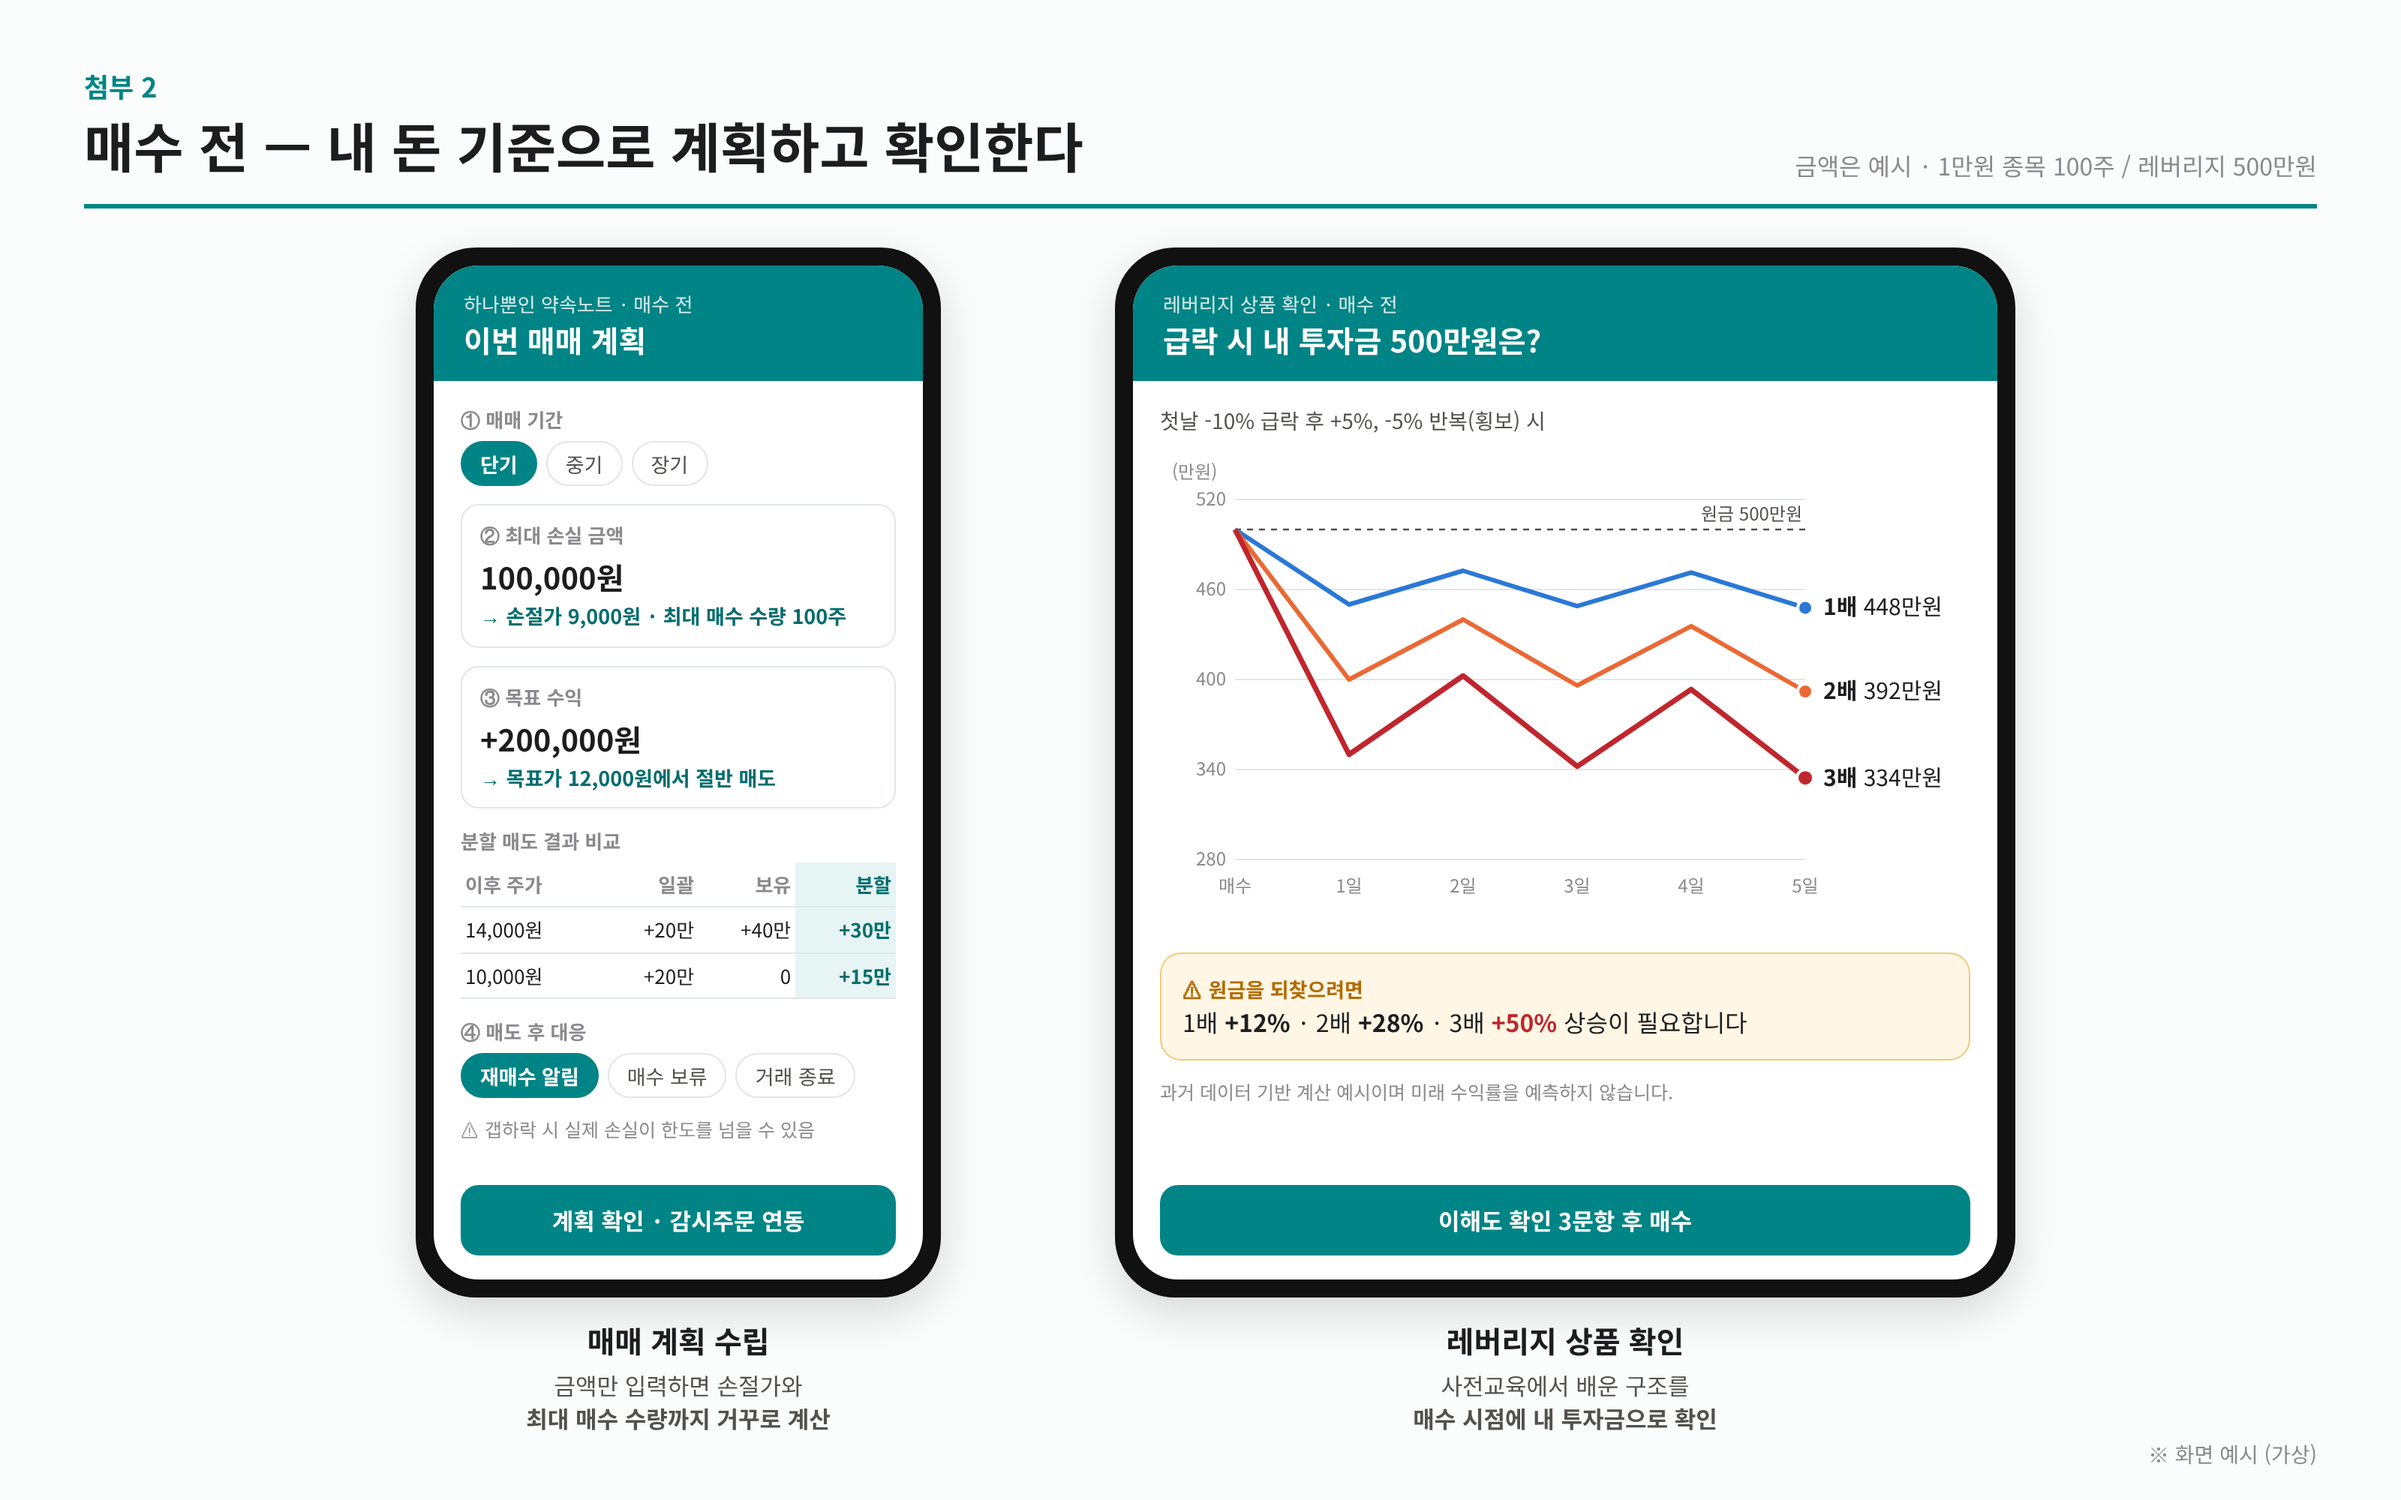
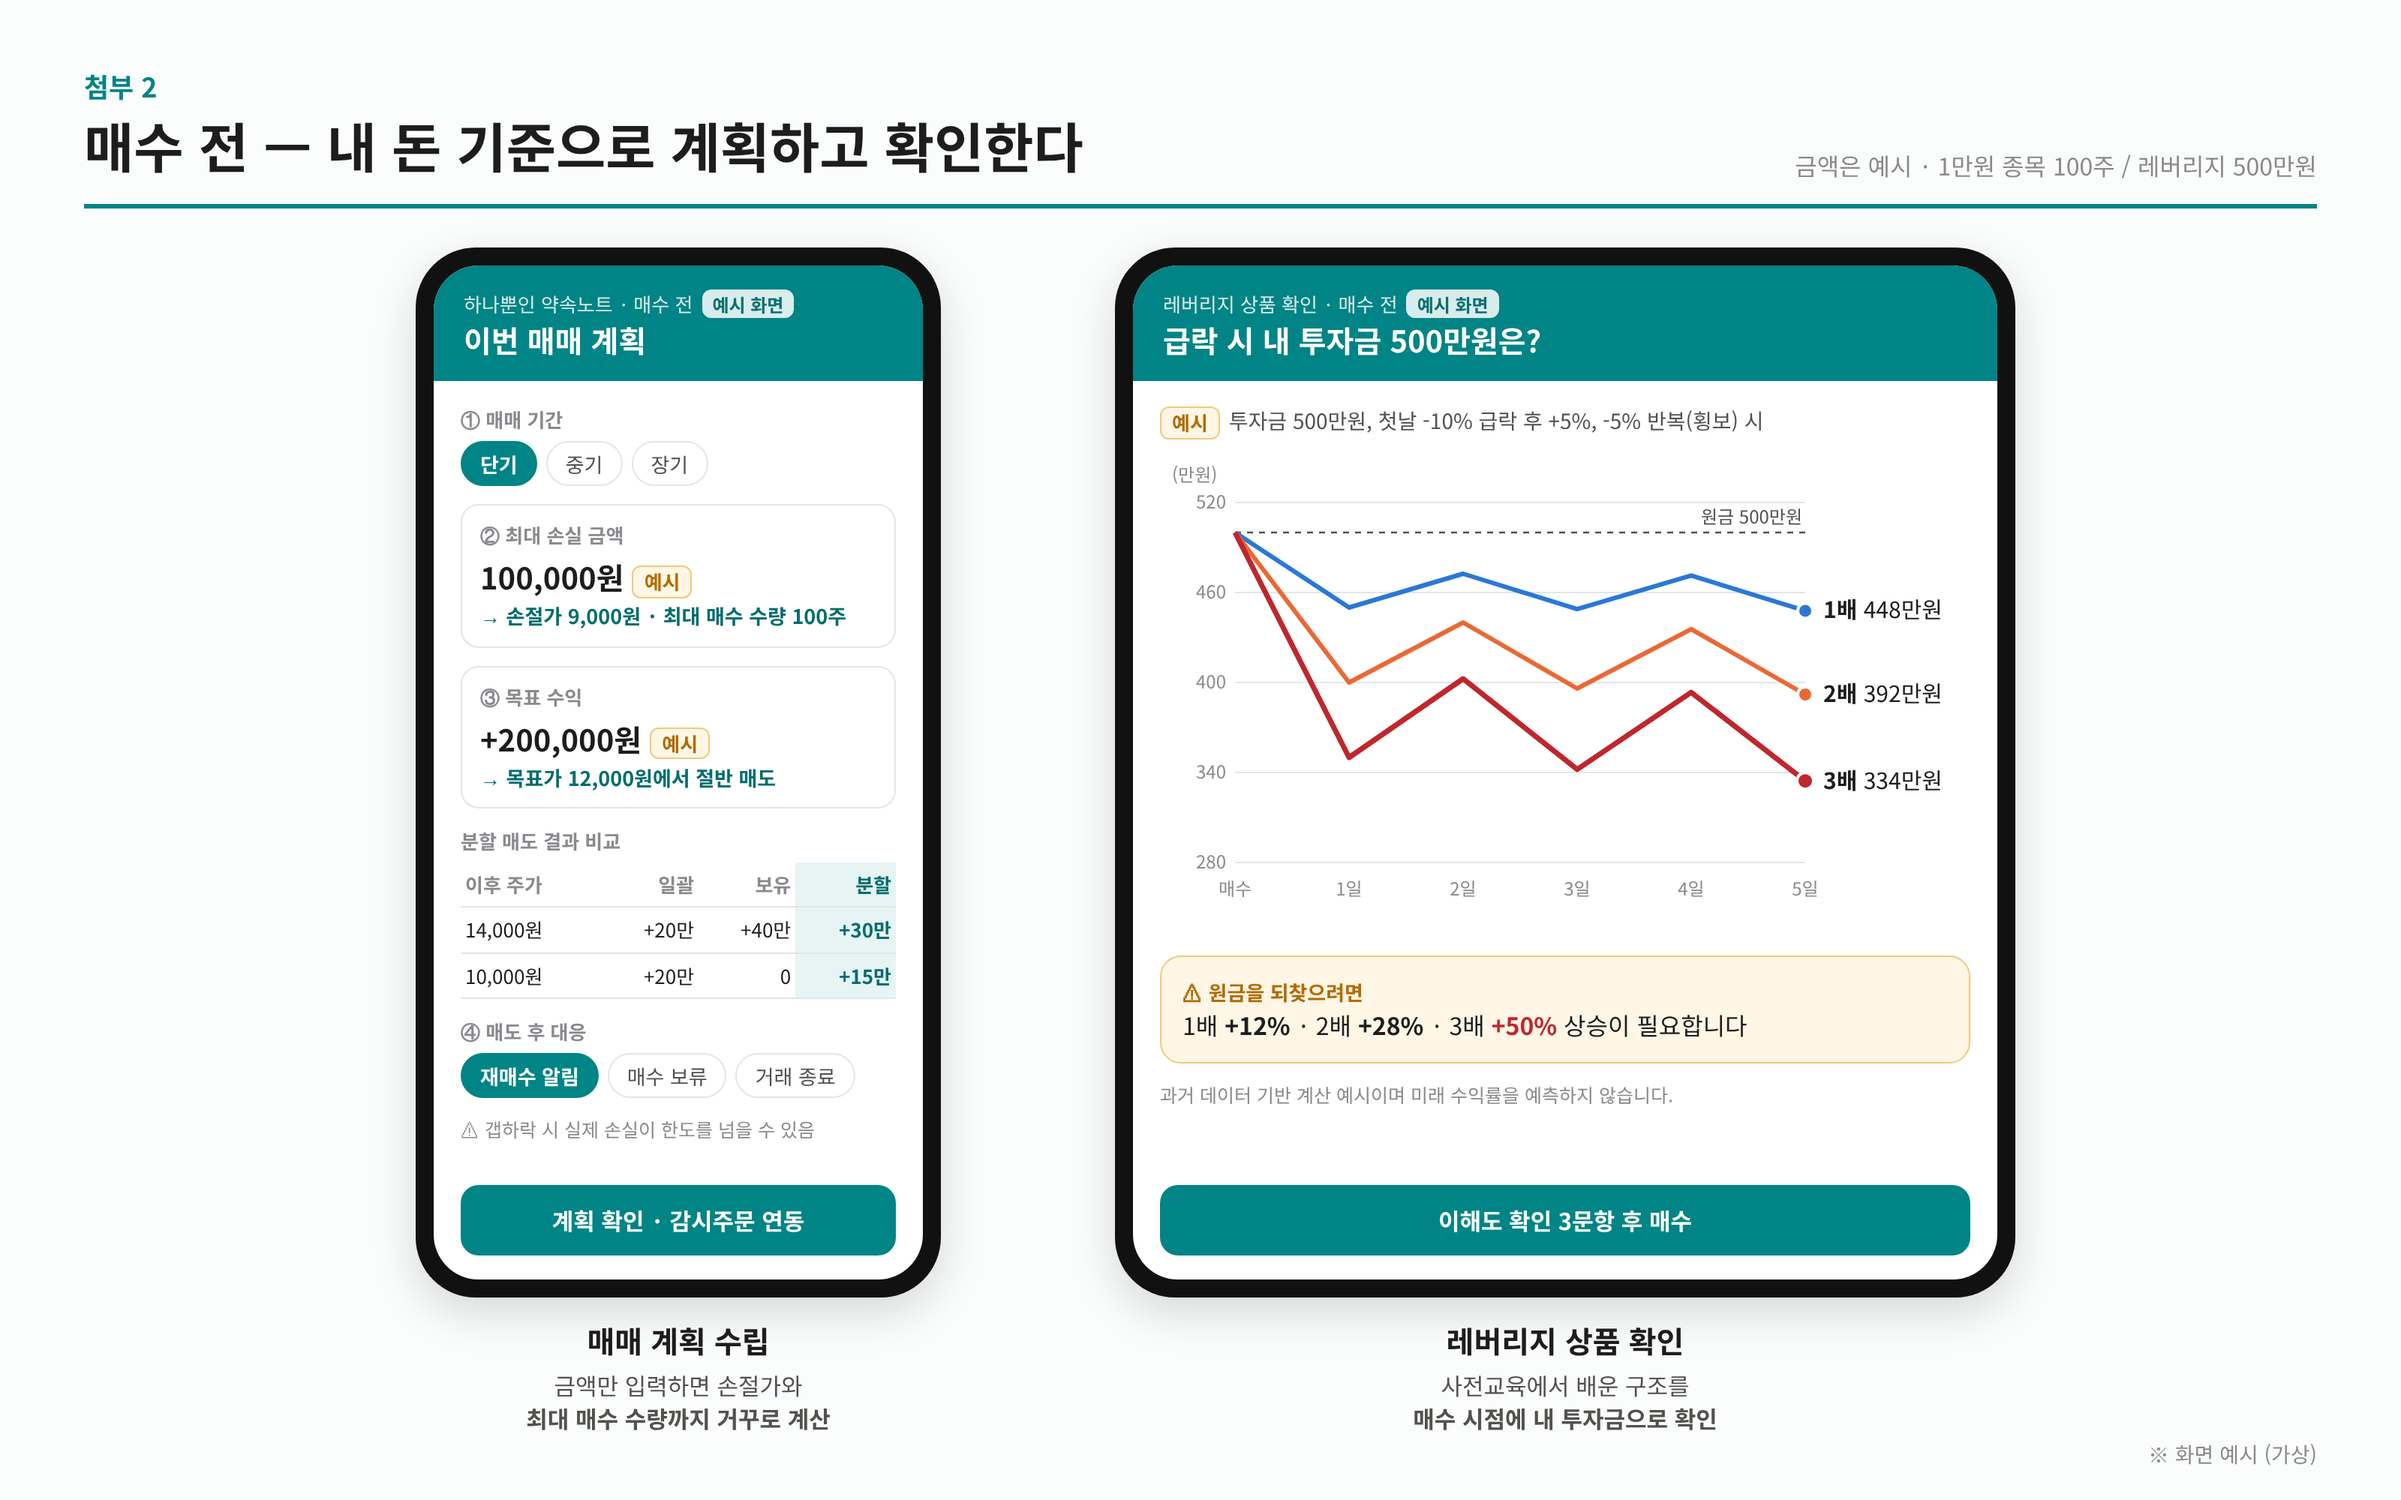
Mark example amounts explicitly in attachments
Claude-Session: https://claude.ai/code/session_01TKkDqm14RjDDXPetjfDB7T

diff --git a/contest/report/첨부이미지_v2.html b/contest/report/첨부이미지_v2.html
@@ -17,6 +17,8 @@ body{margin:0;font-family:"NotoKRL","NotoKR",sans-serif;color:var(--ink);backgro
 .head h1{font-size:36px;margin:0;}
 .head .no{font-size:18px;color:var(--teal);font-weight:700;}
 .head .note{font-size:16px;color:var(--muted);}
+.ex{display:inline-block;background:#fff;color:var(--teal-d);border:1.5px solid #fff;border-radius:6px;font-size:12px;font-weight:700;padding:0 6px;margin-left:6px;}
+.exb{display:inline-block;background:var(--warn-bg);color:var(--warn);border:1.5px solid #f2c97a;border-radius:6px;font-size:13px;font-weight:700;padding:0 7px;margin-right:6px;vertical-align:middle;}
 .virtual{position:absolute;right:56px;bottom:20px;font-size:14px;color:var(--muted);}
 .new{display:inline-block;background:var(--new);color:#fff;font-size:13px;font-weight:700;border-radius:6px;padding:2px 8px;margin-left:8px;vertical-align:middle;}
 /* image1 */
@@ -91,7 +93,7 @@ svg text{font-family:"NotoKRL","NotoKR",sans-serif;}
   <div class="flow">
     <div class="step"><div class="when">① 매수 전</div><h3>매매 계획 수립</h3>
       <div class="d">매매 기간, 최대 손실 금액, 목표 수익, 매도 후 대응을 손님이 직접 정함</div>
-      <div class="q">최대 손실 10만원 → 손절가 9천원 · 최대 매수 100주</div></div>
+      <div class="q"><span class="exb">예시</span>최대 손실 10만원 → 손절가 9천원 · 최대 매수 100주</div></div>
     <div class="arrow">›</div>
     <div class="step"><div class="when">② 보유 중</div><h3>계획 외 거래 확인</h3>
       <div class="d">계획에 없던 추가매수·추격매수 때만 최초 계획을 다시 보여줌</div>
@@ -122,11 +124,11 @@ svg text{font-family:"NotoKRL","NotoKR",sans-serif;}
   <div class="head"><div><div class="no">첨부 2</div><h1>매수 전 — 내 돈 기준으로 계획하고 확인한다</h1></div><div class="note">금액은 예시 · 1만원 종목 100주 / 레버리지 500만원</div></div>
   <div class="phones">
     <div class="capw"><div class="phone"><div class="screen">
-      <div class="bar"><div class="t">하나뿐인 약속노트 · 매수 전</div><div class="h">이번 매매 계획</div></div>
+      <div class="bar"><div class="t">하나뿐인 약속노트 · 매수 전<span class="ex">예시 화면</span></div><div class="h">이번 매매 계획</div></div>
       <div class="body">
         <div><div class="lbl">① 매매 기간</div><div class="chips"><span class="chip on">단기</span><span class="chip">중기</span><span class="chip">장기</span></div></div>
-        <div class="field"><div class="lbl">② 최대 손실 금액</div><div class="v">100,000원</div><div class="calc">→ 손절가 9,000원 · 최대 매수 수량 100주</div></div>
-        <div class="field"><div class="lbl">③ 목표 수익</div><div class="v">+200,000원</div><div class="calc">→ 목표가 12,000원에서 절반 매도</div></div>
+        <div class="field"><div class="lbl">② 최대 손실 금액</div><div class="v">100,000원 <span class="exb">예시</span></div><div class="calc">→ 손절가 9,000원 · 최대 매수 수량 100주</div></div>
+        <div class="field"><div class="lbl">③ 목표 수익</div><div class="v">+200,000원 <span class="exb">예시</span></div><div class="calc">→ 목표가 12,000원에서 절반 매도</div></div>
         <div><div class="lbl">분할 매도 결과 비교</div>
           <table class="mini"><tr><th>이후 주가</th><th>일괄</th><th>보유</th><th class="me">분할</th></tr>
           <tr><td>14,000원</td><td>+20만</td><td>+40만</td><td class="me">+30만</td></tr>
@@ -138,9 +140,9 @@ svg text{font-family:"NotoKRL","NotoKR",sans-serif;}
       <div class="cap">매매 계획 수립</div><div class="capd">금액만 입력하면 손절가와<br><b>최대 매수 수량까지 거꾸로 계산</b></div></div>
 
     <div class="capw" style="width:640px"><div class="phone" style="width:600px"><div class="screen">
-      <div class="bar"><div class="t">레버리지 상품 확인 · 매수 전</div><div class="h">급락 시 내 투자금 500만원은?</div></div>
+      <div class="bar"><div class="t">레버리지 상품 확인 · 매수 전<span class="ex">예시 화면</span></div><div class="h">급락 시 내 투자금 500만원은?</div></div>
       <div class="body">
-        <div style="font-size:14px;color:var(--ink2)">첫날 -10% 급락 후 +5%, -5% 반복(횡보) 시</div>
+        <div style="font-size:14px;color:var(--ink2)"><span class="exb">예시</span>투자금 500만원, 첫날 -10% 급락 후 +5%, -5% 반복(횡보) 시</div>
         <svg width="560" height="320" viewBox="0 0 560 320" role="img" aria-label="1배, 2배, 3배 투자금 변화">
           <g stroke="#e2e6e6" stroke-width="1"><line x1="50" y1="30" x2="430" y2="30"/><line x1="50" y1="90" x2="430" y2="90"/><line x1="50" y1="150" x2="430" y2="150"/><line x1="50" y1="210" x2="430" y2="210"/><line x1="50" y1="270" x2="430" y2="270"/></g>
           <g font-size="12" fill="#8a8a8e" text-anchor="end"><text x="44" y="34">520</text><text x="44" y="94">460</text><text x="44" y="154">400</text><text x="44" y="214">340</text><text x="44" y="274">280</text></g>
@@ -169,7 +171,7 @@ svg text{font-family:"NotoKRL","NotoKR",sans-serif;}
   <div class="head"><div><div class="no">첨부 3</div><h1>판단의 순간마다 계획을 다시 보여준다</h1></div><div class="note">계획된 거래는 방해하지 않고, 계획 외 거래에만 한 번</div></div>
   <div class="phones" style="gap:40px">
     <div class="capw"><div class="phone"><div class="screen">
-      <div class="bar"><div class="t">보유 중 · 추가매수 주문</div><div class="h">계획에 없던 추가매수입니다</div></div>
+      <div class="bar"><div class="t">보유 중 · 추가매수 주문<span class="ex">예시 화면</span></div><div class="h">계획에 없던 추가매수입니다</div></div>
       <div class="body">
         <div class="card warn"><div class="big">최초 계획: -10% 손절매<br>현재: -15%</div></div>
         <div class="row"><span>평균단가</span><b>10,000 → 9,250원</b></div>
@@ -181,7 +183,7 @@ svg text{font-family:"NotoKRL","NotoKR",sans-serif;}
       <div class="cap">계획 외 거래 확인 <span class="new">차별점</span></div><div class="capd">충동적인 추가매수에<br><b>하룻밤의 숙려 시간</b>을 줌</div></div>
 
     <div class="capw"><div class="phone"><div class="screen">
-      <div class="bar"><div class="t">매도 체결 후</div><div class="h">계획의 실행</div></div>
+      <div class="bar"><div class="t">매도 체결 후<span class="ex">예시 화면</span></div><div class="h">계획의 실행</div></div>
       <div class="body">
         <div class="card good"><div class="ic">✓ 이익실현</div><div class="big">계획하신 1만2천원에서<br>절반 매도를 완료했습니다.</div></div>
         <div class="card good"><div class="ic">✓ 손절매</div><div class="big">손절매는 실패가 아니라<br>계획의 실행입니다.</div></div>
@@ -190,7 +192,7 @@ svg text{font-family:"NotoKRL","NotoKR",sans-serif;}
       <div class="cap">매도 후 안내</div><div class="capd">손익이 아니라<br><b>계획을 지켰는지</b>를 안내</div></div>
 
     <div class="capw"><div class="phone"><div class="screen">
-      <div class="bar"><div class="t">월간 리포트</div><div class="h">나의 처분효과 리포트</div></div>
+      <div class="bar"><div class="t">월간 리포트<span class="ex">예시 화면</span></div><div class="h">나의 처분효과 리포트</div></div>
       <div class="body">
         <div class="lbl">평균 보유 기간</div>
         <div class="row"><span>이익 종목</span><b>2일</b></div>
